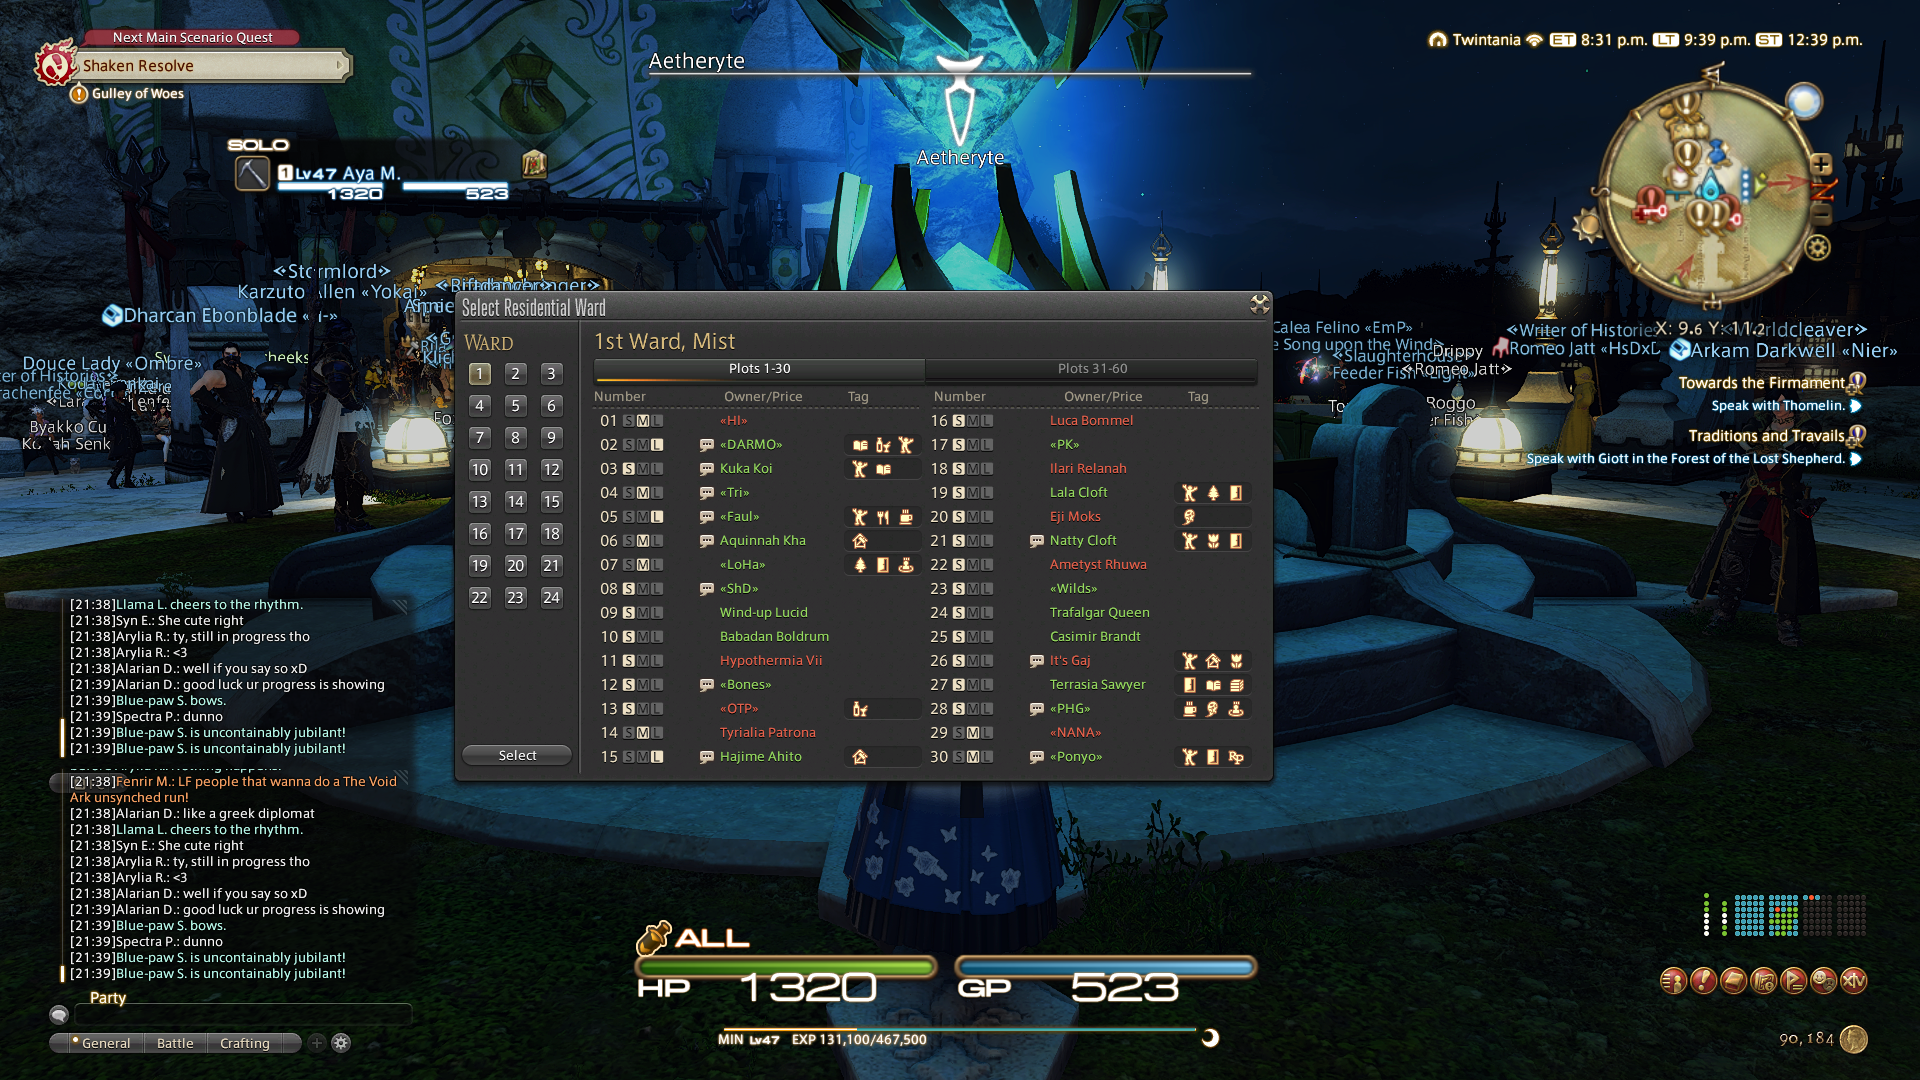
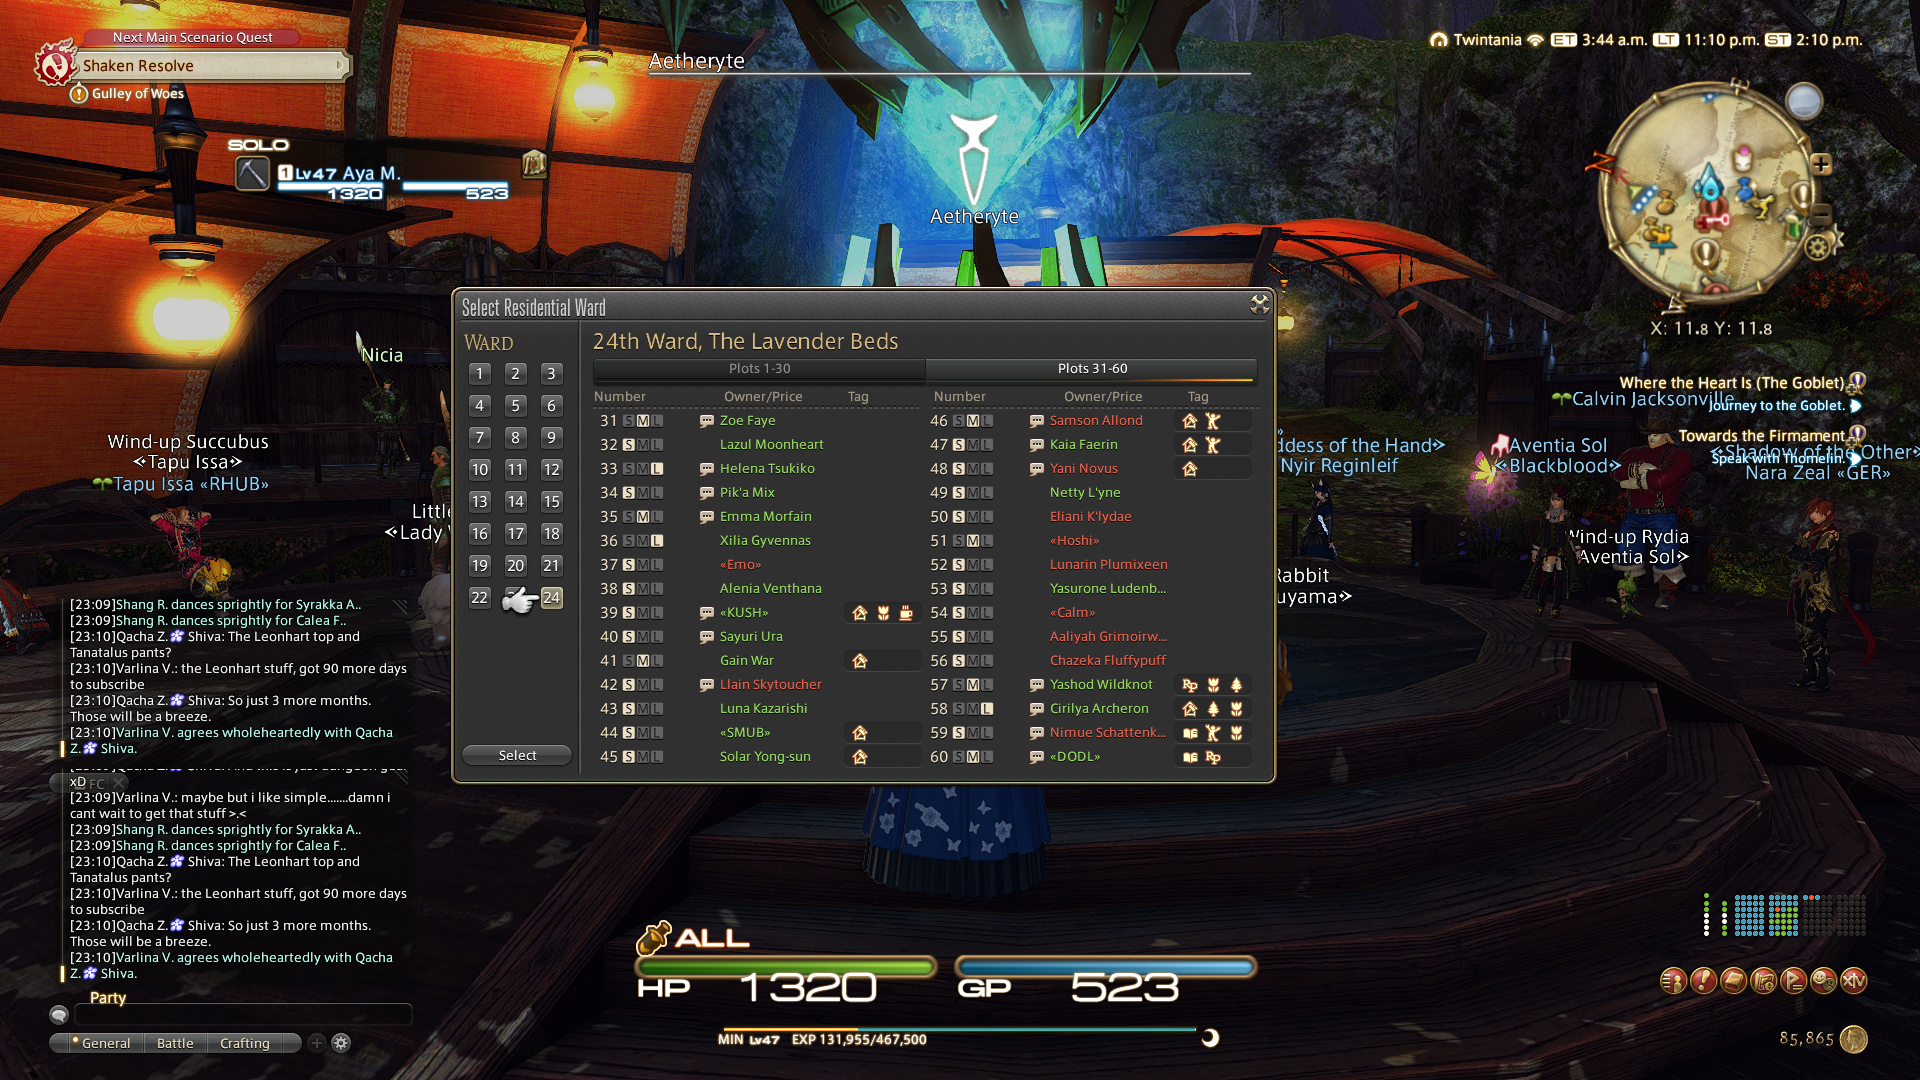
Made bot detect plots available and unavailable. Yay

diff --git a/src/sig/HousingTracker.java b/src/sig/HousingTracker.java
@@ -11,6 +11,7 @@ import java.awt.Robot;
 import java.awt.event.KeyEvent;
 import java.io.File;
 import java.io.IOException;
+import java.util.ArrayList;
 import java.util.HashMap;
 import java.util.List;
 import java.util.Map;
@@ -25,7 +26,7 @@ public class HousingTracker{
 	public static final int SCANSTART_X = 601;
 	public static final int SCANSTART_Y = 415;
 	public static final Rectangle SCANSTART_REGION = new Rectangle(601,415,330,24);
-	public static final Rectangle NAMESTART_REGION = new Rectangle(119,0,16,11);
+	public static final Rectangle NAMESTART_REGION = new Rectangle(119,0,4,11);
 	public static Map<String,List<Boolean>> PLOTSTATE = new HashMap<String,List<Boolean>>();
 	
 	public static final String[] REGIONS =  new String[] {"Kugane","Gridania","Uldah","Limsa"};
@@ -34,6 +35,14 @@ public class HousingTracker{
 	public static void main(String[] args) throws IOException, FontFormatException {
 		try {
 			r = new Robot();
+			
+			for (String REGION : REGIONS) {
+				List<Boolean> house_list = new ArrayList<Boolean>();
+				PLOTSTATE.put(REGION,house_list);
+				for (int i=0;i<1440;i++) {
+					house_list.add(true);
+				}
+			}
 			
 			r.delay(3000);
 			//Starts at 601,415
@@ -45,7 +54,9 @@ public class HousingTracker{
 			}*/
 			//CompleteALoadingPhase();
 			//Walk(Direction.RIGHT,1000);
-			//OpenResidentialMenu();
+			if (OpenResidentialMenu()) {
+				CaptureResidentialData();
+			}
 		} catch (AWTException e) {
 			e.printStackTrace();
 		}
@@ -54,19 +65,62 @@ public class HousingTracker{
 	private static void CaptureResidentialData() {
 		GraphicsEnvironment env = GraphicsEnvironment.getLocalGraphicsEnvironment();
 		BufferedImage i = null;
-		try {
-			i = CaptureScreen(env);
-		} catch (IOException e1) {
-			e1.printStackTrace();
-		}
-		for (int x=0;x<2;x++) {
-			for (int y=0;y<15;y++) {
-				Image plot_img = i.getSubimage(SCANSTART_REGION.x+SCANSTART_REGION.width*x,SCANSTART_REGION.y+SCANSTART_REGION.height*y,SCANSTART_REGION.width,NAMESTART_REGION.height);
+		for (int ward=0;ward<24;ward++) {
+			for (int tab=0;tab<2;tab++) {
+				try {
+					i = CaptureScreen(env);
+				} catch (IOException e1) {
+					e1.printStackTrace();
+				}
+				for (int x=0;x<2;x++) {
+					for (int y=0;y<15;y++) {
+						BufferedImage plot_img = i.getSubimage(SCANSTART_REGION.x+SCANSTART_REGION.width*x,SCANSTART_REGION.y+SCANSTART_REGION.height*y,SCANSTART_REGION.width,NAMESTART_REGION.height);
+						boolean found=false;
+						for (int xx=0;xx<NAMESTART_REGION.width;xx++) {
+							for (int yy=0;yy<NAMESTART_REGION.height;yy++) {
+								Color col = new Color(plot_img.getRGB(NAMESTART_REGION.x+xx, NAMESTART_REGION.y+yy));
+								if (col.getRed()>150||col.getGreen()>150) {
+									found=true;
+									break;
+								}
+							}
+							if (found) {
+								break;
+							}
+						}
+						if (found) {
+							//Ignore this plot, it is taken.
+							PLOTSTATE.get(REGIONS[CURRENT_REGION]).set(x*15+y+ward*60+tab*30,found);
+							System.out.println("Plot "+((x*15+y+tab*30)+1)+" in Ward "+(ward+1)+" is taken.");
+						} else {
+							//Ignore this plot, it is taken.
+							if (PLOTSTATE.get(REGIONS[CURRENT_REGION]).get(x*15+y+ward*60+tab*30)) {
+								AnnounceNewOpenPlot(REGIONS[CURRENT_REGION],ward+1,(x*15+y+tab*30)+1,"Small");
+							}
+							PLOTSTATE.get(REGIONS[CURRENT_REGION]).set(x*15+y+ward*60+tab*30,found);
+						}
+					}
+				}
+				PressKey(KeyEvent.VK_F10);r.delay(500);
 			}
+			PressKey(KeyEvent.VK_F9);r.delay(200);
+			PressKeyWithModifier(KeyEvent.VK_SHIFT,KeyEvent.VK_F10);r.delay(200);
+			PressKey(KeyEvent.VK_NUMPAD0);r.delay(1000);
 		}
 	}
 	
-	private static void OpenResidentialMenu() {
+	private static void AnnounceNewOpenPlot(String region,int ward,int plot,String size) {
+		System.out.println("A new "+size+" plot has become available in "+region+", Ward "+ward+", Plot "+plot+"!");
+	}
+	
+	private static void PressKeyWithModifier(int modifier,int keycode) {
+		r.keyPress(modifier);
+		r.keyPress(keycode);
+		r.keyRelease(keycode);r.delay(100);
+		r.keyRelease(modifier);
+	}
+	
+	private static boolean OpenResidentialMenu() {
 		PressKey(KeyEvent.VK_ESCAPE);r.delay(500);
 		PressKey(KeyEvent.VK_ESCAPE);r.delay(500);
 		PressKey(KeyEvent.VK_NUMPAD0);
@@ -79,8 +133,10 @@ public class HousingTracker{
 			PressKey(KeyEvent.VK_NUMPAD0);r.delay(2000);
 			PressKey(KeyEvent.VK_NUMPAD7);r.delay(200);
 			PressKey(KeyEvent.VK_NUMPAD0);r.delay(2000);
+			return true;
 		} else {
 			System.out.println("Could not select Aetheryte!! Moving on...");
+			return false;
 		}
 	}
 
